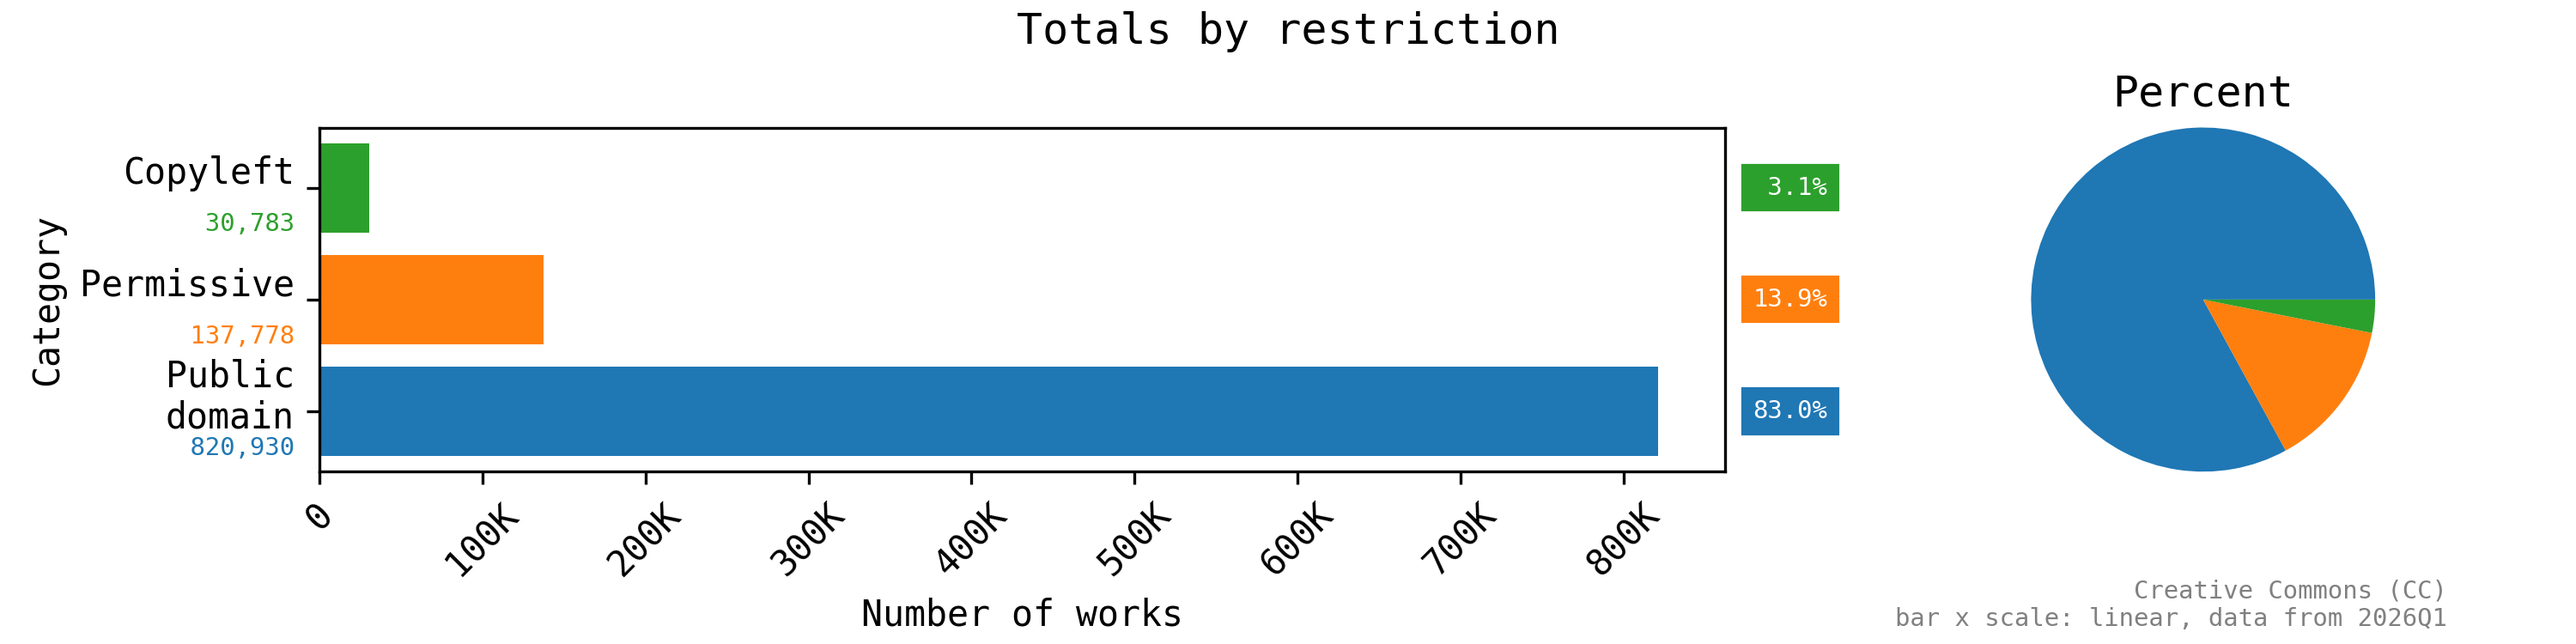
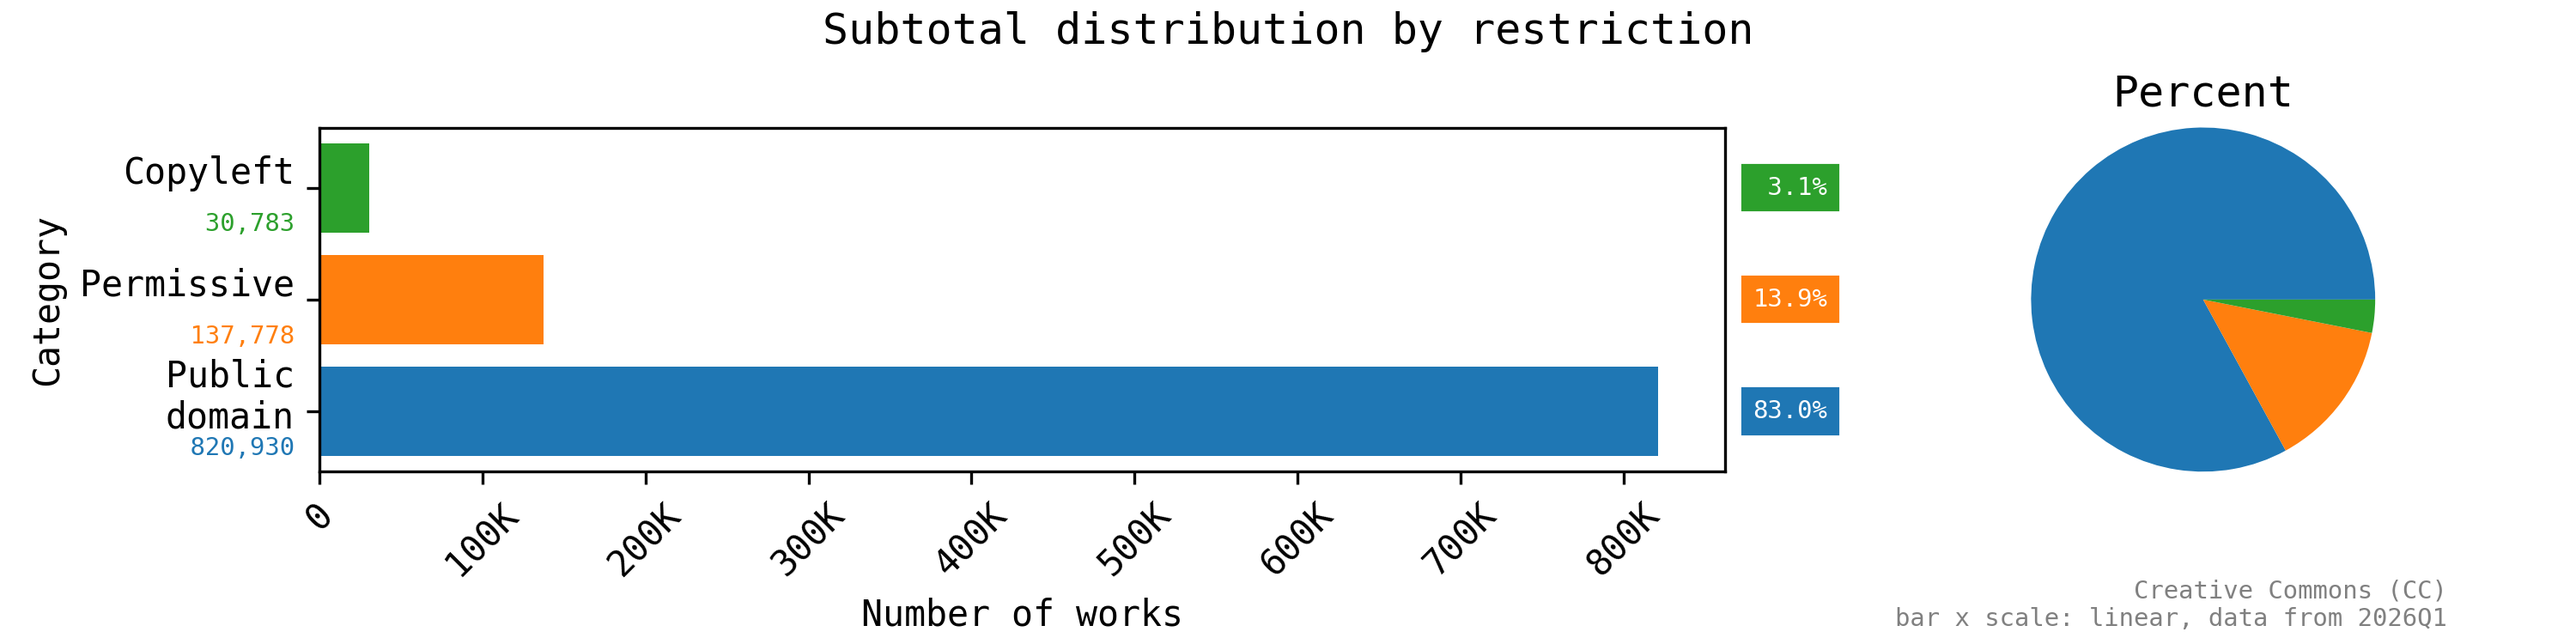
update report data and report with corrected process data

Changed region(s): [[0.31, 0.0, 0.682, 0.092]]

diff --git a/data/2026Q1/README.md b/data/2026Q1/README.md
@@ -24,9 +24,9 @@ Thank you Google for providing the Programable Search Engine: Custom Search JSON
 
 ### Products totals and percentages
 
-![Plots showing Creative Commons (CC) legal tool product totals and percentages.](3-report/gcs_product_totals.png)
+![The plot shows Creative Commons (CC) legal tool product totals and percentages.](3-report/gcs_product_totals.png)
 
-Plots showing Creative Commons (CC) legal tool product totals and percentages.
+The plot shows Creative Commons (CC) legal tool product totals and percentages.
 
 <!-- gcs_report.py entry end Products totals and percentages -->
 
@@ -35,9 +35,9 @@ Plots showing Creative Commons (CC) legal tool product totals and percentages.
 
 ### CC legal tools status
 
-![Plots showing Creative Commons (CC) legal tool status totals and percentages.](3-report/gcs_tool_status.png)
+![The plot shows Creative Commons (CC) legal tool status totals and percentages.](3-report/gcs_tool_status.png)
 
-Plots showing Creative Commons (CC) legal tool status totals and percentages.
+The plot shows Creative Commons (CC) legal tool status totals and percentages.
 
 <!-- gcs_report.py entry end CC legal tools status -->
 
@@ -46,9 +46,11 @@ Plots showing Creative Commons (CC) legal tool status totals and percentages.
 
 ### Latest CC legal tools
 
-![Plots showing latest Creative Commons (CC) legal tool totals and percentages.](3-report/gcs_status_latest_tools.png)
+![The plot shows the latest Creative Commons (CC) legal tool totals and percentages.](3-report/gcs_status_latest_tools.png)
 
-Plots showing latest Creative Commons (CC) legal tool totals and percentages.
+The plot shows the latest Creative Commons (CC) legal tool totals and percentages.
+
+The latest tools include Licenses version 4.0 (CC BY 4.0, CC BY-NC 4.0, CC BY-NC-ND 4.0, CC BY-NC-SA 4.0, CC-BY-ND 4.0, CC BY-SA 4.0), CC0 1.0, and the Public Domain Mark (PDM 1.0).
 
 <!-- gcs_report.py entry end Latest CC legal tools -->
 
@@ -57,11 +59,9 @@ Plots showing latest Creative Commons (CC) legal tool totals and percentages.
 
 ### Prior CC legal tools
 
-![Plots showing prior Creative Commons (CC) legal tool totals and percentages.](3-report/gcs_status_prior_tools.png)
+![The plot shows prior Creative Commons (CC) legal tool totals and percentages. Prior CC licenses include versions 1.0, 2.0, 2.1, 2.5, and 3.0. The unit names have been normalized (~~`CC BY-ND-NC`~~ => `CC BY-NC-ND`).](3-report/gcs_status_prior_tools.png)
 
-Plots showing prior Creative Commons (CC) legal tool totals and percentages.
-
-The unit names have been normalized (~~`CC BY-ND-NC`~~ => `CC BY-NC-ND`).
+The plot shows prior Creative Commons (CC) legal tool totals and percentages. Prior CC licenses include versions 1.0, 2.0, 2.1, 2.5, and 3.0. The unit names have been normalized (~~`CC BY-ND-NC`~~ => `CC BY-NC-ND`).
 
 <!-- gcs_report.py entry end Prior CC legal tools -->
 
@@ -70,11 +70,9 @@ The unit names have been normalized (~~`CC BY-ND-NC`~~ => `CC BY-NC-ND`).
 
 ### Retired CC legal tools
 
-![Plots showing retired Creative Commons (CC) legal tools total and percentages.](3-report/gcs_status_retired_tools.png)
+![The plot shows retired Creative Commons (CC) legal tools total and percentages. For more information on retired legal tools, see [Retired Legal Tools - Creative Commons](https://creativecommons.org/retiredlicenses/).](3-report/gcs_status_retired_tools.png)
 
-Plots showing retired Creative Commons (CC) legal tools total and percentages.
-
-For more information on retired legal tools, see [Retired Legal Tools - Creative Commons](https://creativecommons.org/retiredlicenses/).
+The plot shows retired Creative Commons (CC) legal tools total and percentages. For more information on retired legal tools, see [Retired Legal Tools - Creative Commons](https://creativecommons.org/retiredlicenses/).
 
 <!-- gcs_report.py entry end Retired CC legal tools -->
 
@@ -83,13 +81,13 @@ For more information on retired legal tools, see [Retired Legal Tools - Creative
 
 ### Countries with highest usage of latest tools
 
-![Plots showing countries with the highest useage of the latest Creative Commons (CC) legal tools.](3-report/gcs_countries_highest_usage_latest_tools.png)
+![The plot shows countries with the highest usage of the latest Creative Commons (CC) legal tools.](3-report/gcs_countries_highest_usage_latest_tools.png)
 
-Plots showing countries with the highest useage of the latest Creative Commons (CC) legal tools.
+The plot shows countries with the highest usage of the latest Creative Commons (CC) legal tools.
 
 The latest tools include Licenses version 4.0 (CC BY 4.0, CC BY-NC 4.0, CC BY-NC-ND 4.0, CC BY-NC-SA 4.0, CC-BY-ND 4.0, CC BY-SA 4.0), CC0 1.0, and the Public Domain Mark (PDM 1.0).
 
-The complete data set indicates there are a total of 2,624,944,398 online works using a latest CC legal tool.
+The complete countries data set indicates there are a total of 2,624,944,398 online works using one of the latest CC legal tools. This conflicts with the languages data set, below.
 
 <!-- gcs_report.py entry end Countries with highest usage of latest tools -->
 
@@ -98,13 +96,13 @@ The complete data set indicates there are a total of 2,624,944,398 online works 
 
 ### Languages with highest usage of latest tools
 
-![Plots showing languages with the highest useage of the latest Creative Commons (CC) legal tools.](3-report/gcs_languages_highest_usage_latest_tools.png)
+![The plot shows the languages with the highest usage of the latest Creative Commons (CC) legal tools.](3-report/gcs_languages_highest_usage_latest_tools.png)
 
-Plots showing languages with the highest useage of the latest Creative Commons (CC) legal tools.
+The plot shows the languages with the highest usage of the latest Creative Commons (CC) legal tools.
 
 The latest tools include Licenses version 4.0 (CC BY 4.0, CC BY-NC 4.0, CC BY-NC-ND 4.0, CC BY-NC-SA 4.0, CC-BY-ND 4.0, CC BY-SA 4.0), CC0 1.0, and the Public Domain Mark (PDM 1.0).
 
-The complete data set indicates there are a total of 1,310,359,425 online works using a latest CC legal tool.
+The complete languages data set indicates there are a total of 1,310,359,425 online works using one of the latest CC legal tools. This conflicts with the countries data set, above.
 
 <!-- gcs_report.py entry end Languages with highest usage of latest tools -->
 
@@ -113,9 +111,9 @@ The complete data set indicates there are a total of 1,310,359,425 online works 
 
 ### Approved for Free Cultural Works
 
-![Plots showing Approved for Free Cultural Works legal tool usage.](3-report/gcs_free_culture.png)
+![The plot shows Approved for Free Cultural Works legal tool usage.](3-report/gcs_free_culture.png)
 
-Plots showing Approved for Free Cultural Works legal tool usage.
+The plot shows Approved for Free Cultural Works legal tool usage.
 
 [Understanding Free Cultural Works - Creative Commons](https://creativecommons.org/public-domain/freeworks/):
 
@@ -135,37 +133,41 @@ Plots showing Approved for Free Cultural Works legal tool usage.
 
 ### Overview
 
-The GitHub data, below, uses the `total_count` returned by API for search queries of the various legal tools.
-**The results indicate that 483877 (0.17%)** of the 289935546 total public repositories on GitHub that use a CC legal tool. Additionally, many more use a non-CC use a Public domain equivalent legal tools.
+The GitHub data, below, uses the `total_count` returned by the API for search queries of the various legal tools.
 
- The GitHub data showcases the different level of rights reserved on repositories We have Public domain which includes works released under CC0, 0BSD and Unlicense meaning developers have waived all their rights to a software. Allowing anyone to freely use, modify, and distribute the code without restriction. See more at [Public-domain-equivalent license](https://en.wikipedia.org/wiki/Public-domain-equivalent_license).
- While a Permissive category of license contains works under MIT-0 and CC BY 4.0 allows users to reuse the code with some conditions and attribution [Permissive license](https://en.wikipedia.org/wiki/Permissive_software_license) and Copyleft contains works under CC BY-SA 4.0. which requires any derivative works to be licensed under the same terms. [Copyleft](https://en.wikipedia.org/wiki/Copyleft).
+**The results indicate that 483,877 (0.17%)** of the 289,935,546 total public repositories on GitHub use a CC legal tool. Additionally, many more use a non-CC use a Public domain equivalent legal tools. The fetched GitHub data creates a a subtotal that showcases the different level of permission that works are released under.
+
+The public-domain-equivalent licenses include 0BSD, CC0, MIT-0 and Unlicense. These licenses allow anyone to freely use, modify, and distribute the code without restriction. See more at [Public-domain-equivalent license](https://en.wikipedia.org/wiki/Public-domain-equivalent_license).
+
+The CC BY 4.0 license is a permissive license that allows users to reuse the code with some conditions and attribution. See more at [Permissive license](https://en.wikipedia.org/wiki/Permissive_software_license).
+
+The CC BY-SA 4.0 license is a copyleft license which requires any derivative works to be licensed under the same terms. See more at [Copyleft](https://en.wikipedia.org/wiki/Copyleft).
 
 Thank you GitHub for providing public API access to repository metadata!
 
 <!-- github_report.py entry end Overview -->
 
 
-<!-- github_report.py entry start Totals by license type -->
+<!-- github_report.py entry start Subtotal distribution by license -->
 
-### Totals by license type
+### Subtotal distribution by license
 
-![Plots showing totals by license type. This shows the distribution of different CC license and non CC license used in GitHub repositories. Allowing Commons to evaluate how freely softwares on GitHub are being used, modified, and shared and how developers choose to share their works. See more at [SPDX License List](https://spdx.org/licenses/)](3-report/github_totals_by_license_type.png)
+![The plot shows the distribution of the different open content or public-domain-equivalent licenses (0BSD, CC BY 4.0, CC BY-SA 4.0, CC0 1.0, MIT-0, and Unlicense) used in the subtotal of GitHub repositories.](3-report/github_totals_by_license_type.png)
 
-Plots showing totals by license type. This shows the distribution of different CC license and non CC license used in GitHub repositories. Allowing Commons to evaluate how freely softwares on GitHub are being used, modified, and shared and how developers choose to share their works. See more at [SPDX License List](https://spdx.org/licenses/)
+The plot shows the distribution of the different open content or public-domain-equivalent licenses (0BSD, CC BY 4.0, CC BY-SA 4.0, CC0 1.0, MIT-0, and Unlicense) used in the subtotal of GitHub repositories.
 
-<!-- github_report.py entry end Totals by license type -->
+<!-- github_report.py entry end Subtotal distribution by license -->
 
 
-<!-- github_report.py entry start Totals by restriction -->
+<!-- github_report.py entry start Subtotal distribution by restriction -->
 
-### Totals by restriction
+### Subtotal distribution by restriction
 
-![Plots showing totals by different levels of restrictions. This shows the distribution of Public domain, Permissive, and Copyleft licenses used in GitHub repositories.](3-report/github_restriction.png)
+![The plot shows the distribution of the different restrictions (Copyleft, Permissive, Public domain) used in the subtotal of GitHub repositories.](3-report/github_restriction.png)
 
-Plots showing totals by different levels of restrictions. This shows the distribution of Public domain, Permissive, and Copyleft licenses used in GitHub repositories.
+The plot shows the distribution of the different restrictions (Copyleft, Permissive, Public domain) used in the subtotal of GitHub repositories.
 
-<!-- github_report.py entry end Totals by restriction -->
+<!-- github_report.py entry end Subtotal distribution by restriction -->
 
 
 <!-- SECTION end github_report.py -->
@@ -179,7 +181,8 @@ Plots showing totals by different levels of restrictions. This shows the distrib
 
 ### Overview
 
-The Smithsonian Institute data returns the overall statistics of CC0 legal tool records. It serves as the main legal tool used by Smithsonian Institute.
+The Smithsonian Institute data returns the overall statistics of CC0 legal tool records. CC0 serves as the main legal tool used by the Smithsonian Institute.
+
 The results indicate a total record of 32,567,783 objects, with a breakdown of 17,586,024 objects without CC0 Media and 5,213,799 objects with CC0 Media, taking a percentage of 11.95% in each institute member. There are 39 unique units in the data representing museums, libraries, zoos and other institutions with a minimum of 410 objects.
 
 <!-- smithsonian_report.py entry end Overview -->
@@ -189,9 +192,9 @@ The results indicate a total record of 32,567,783 objects, with a breakdown of 1
 
 ### Totals by 10 Units
 
-![Plots showing totals by units. This shows the distribution of top 10 institute member across Smithsonian Institute with an average of 2,326,055.1 objects across the top 10 Institute members.](3-report/smithsonian_totals_by_top10_units.png)
+![The plot shows totals by units. It shows the distribution of top 10 institute member across the Smithsonian Institute with an average of 2,326,055.1 objects across the top 10 Institute members.](3-report/smithsonian_totals_by_top10_units.png)
 
-Plots showing totals by units. This shows the distribution of top 10 institute member across Smithsonian Institute with an average of 2,326,055.1 objects across the top 10 Institute members.
+The plot shows totals by units. It shows the distribution of top 10 institute member across the Smithsonian Institute with an average of 2,326,055.1 objects across the top 10 Institute members.
 
 <!-- smithsonian_report.py entry end Totals by 10 Units -->
 
@@ -200,11 +203,9 @@ Plots showing totals by units. This shows the distribution of top 10 institute m
 
 ### Totals by lowest 10 Units
 
-![Plots showing totals by units.](3-report/smithsonian_totals_by_lowest10_unit.png)
+![The plot shows totals by units. It shows the distribution of lowest 10 institute member across Smithsonian Institute with an average of 8978.5 objects across the lowest 10 institute members.](3-report/smithsonian_totals_by_lowest10_unit.png)
 
-Plots showing totals by units.
-
-This shows the distribution of lowest 10 institute member across Smithsonian Institute with an average of 8978.5 objects across the lowest 10 institute members.
+The plot shows totals by units. It shows the distribution of lowest 10 institute member across Smithsonian Institute with an average of 8978.5 objects across the lowest 10 institute members.
 
 <!-- smithsonian_report.py entry end Totals by lowest 10 Units -->
 
@@ -213,9 +214,9 @@ This shows the distribution of lowest 10 institute member across Smithsonian Ins
 
 ### Breakdown of CC0 records by top 10 units
 
-![Plots showing totals by CC0 records. This is the top 10 units with a breakdown of CC0 records without media, CC0 records with media and records that are not associated with CC0.](3-report/smithsonian_by_top10_unit_records.png)
+![The plot shows totals by CC0 records. It shows the top 10 units with a breakdown of CC0 records without media, CC0 records with media and records that are not associated with CC0.](3-report/smithsonian_by_top10_unit_records.png)
 
-Plots showing totals by CC0 records. This is the top 10 units with a breakdown of CC0 records without media, CC0 records with media and records that are not associated with CC0.
+The plot shows totals by CC0 records. It shows the top 10 units with a breakdown of CC0 records without media, CC0 records with media and records that are not associated with CC0.
 
 <!-- smithsonian_report.py entry end Breakdown of CC0 records by top 10 units -->
 
@@ -224,9 +225,9 @@ Plots showing totals by CC0 records. This is the top 10 units with a breakdown o
 
 ### Breakdown of CC0 records by lowest 10 units
 
-![Plots showing totals by CC0 records. This is the lowest 10 units with a breakdown of CC0 records without media, CC0 records with media and records that are not associated with CC0.](3-report/smithsonian_by_lowest10_unit_records.png)
+![The plot shows totals by CC0 records. It shows the lowest 10 units with a breakdown of CC0 records without media, CC0 records with  media and records that are not associated with CC0.](3-report/smithsonian_by_lowest10_unit_records.png)
 
-Plots showing totals by CC0 records. This is the lowest 10 units with a breakdown of CC0 records without media, CC0 records with media and records that are not associated with CC0.
+The plot shows totals by CC0 records. It shows the lowest 10 units with a breakdown of CC0 records without media, CC0 records with  media and records that are not associated with CC0.
 
 <!-- smithsonian_report.py entry end Breakdown of CC0 records by lowest 10 units -->
 
@@ -243,7 +244,9 @@ Plots showing totals by CC0 records. This is the lowest 10 units with a breakdow
 ### Overview
 
 This report provides insights into the usage of the Creative Commons Attribution 4.0 International across the different language editions of Wikipedia. The Wikipedia data, below, uses the `Count` field from the Wikipedia API to quantify the number of articles in each language edition of Wikipedia.
+
 **The total number of Wikipedia articles across 352 languages is 66,542,690. The top 10 languages account for 31,729,774 articles, which is 47.68% of the total articles. The average number of articles per language is 189,041.73.**
+
 Thank you to the volunteers who curate this data and the Wikimedia Foundation for making it publicly available!
 
 <!-- wikipedia_report.py entry end Overview -->
@@ -253,9 +256,9 @@ Thank you to the volunteers who curate this data and the Wikimedia Foundation fo
 
 ### Language Representation
 
-![Plots showing the language representation across different language editions of Wikipedia. This shows how many languages are underrepresented (below average number of articles) versus represented (above average number of articles).](3-report/wikipedia_language_representation.png)
+![The plot shows the language representation across the different language editions of Wikipedia. It shows how many languages are underrepresented (below average number of articles) versus represented (above average number of articles).](3-report/wikipedia_language_representation.png)
 
-Plots showing the language representation across different language editions of Wikipedia. This shows how many languages are underrepresented (below average number of articles) versus represented (above average number of articles).
+The plot shows the language representation across the different language editions of Wikipedia. It shows how many languages are underrepresented (below average number of articles) versus represented (above average number of articles).
 
 <!-- wikipedia_report.py entry end Language Representation -->
 
@@ -264,9 +267,9 @@ Plots showing the language representation across different language editions of 
 
 ### Most represented languages
 
-![Plots showing the most represented languages across the differentlanguage editions of Wikipedia.](3-report/wikipedia_highest_language_usage.png)
+![The plot shows the most represented languages across the different language editions of Wikipedia.](3-report/wikipedia_highest_language_usage.png)
 
-Plots showing the most represented languages across the differentlanguage editions of Wikipedia.
+The plot shows the most represented languages across the different language editions of Wikipedia.
 
 <!-- wikipedia_report.py entry end Most represented languages -->
 
@@ -275,9 +278,9 @@ Plots showing the most represented languages across the differentlanguage editio
 
 ### Least represented languages
 
-![Plots showing the least represented languages across the different language editions of Wikipedia.](3-report/wikipedia_least_language_usage.png)
+![The plot shows the least represented languages across the different language editions of Wikipedia.](3-report/wikipedia_least_language_usage.png)
 
-Plots showing the least represented languages across the different language editions of Wikipedia.
+The plot shows the least represented languages across the different language editions of Wikipedia.
 
 <!-- wikipedia_report.py entry end Least represented languages -->
 
